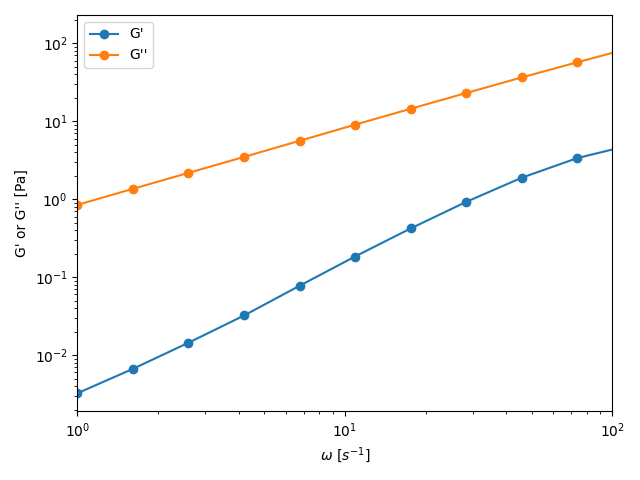
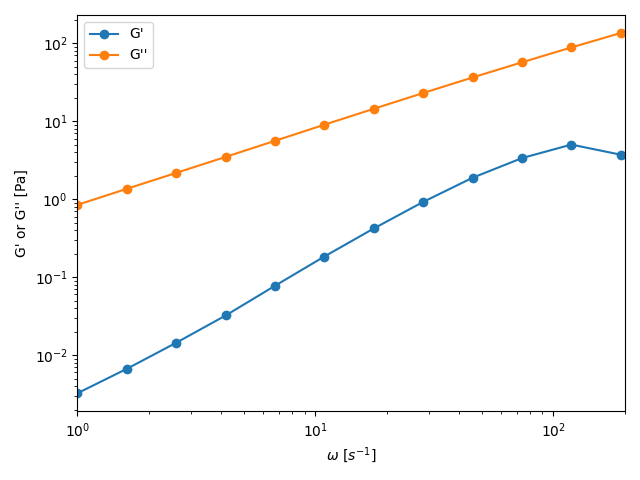
Rheo fertig

diff --git a/1. Abgabe/Rheology/Plots/plotsAufgabe2FRQ.py b/1. Abgabe/Rheology/Plots/plotsAufgabe2FRQ.py
@@ -31,7 +31,7 @@ plt.clf()
 
 plt.xlabel("$\omega$ [$s^{-1}$]")
 plt.ylabel("G' or G'' [Pa]")
-plt.xlim(1, 10e1)
+plt.xlim(1, 20e1)
 plt.xscale("log")
 plt.yscale("log")
 
